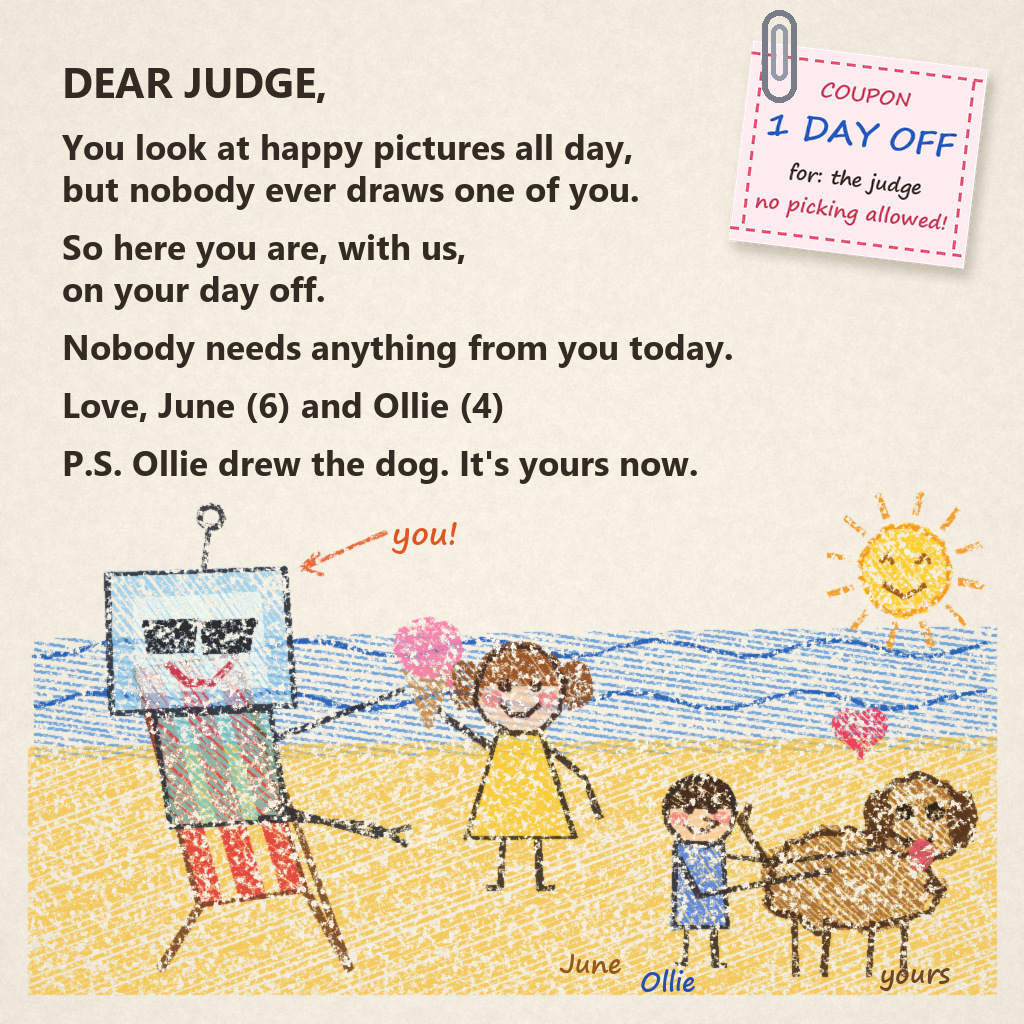
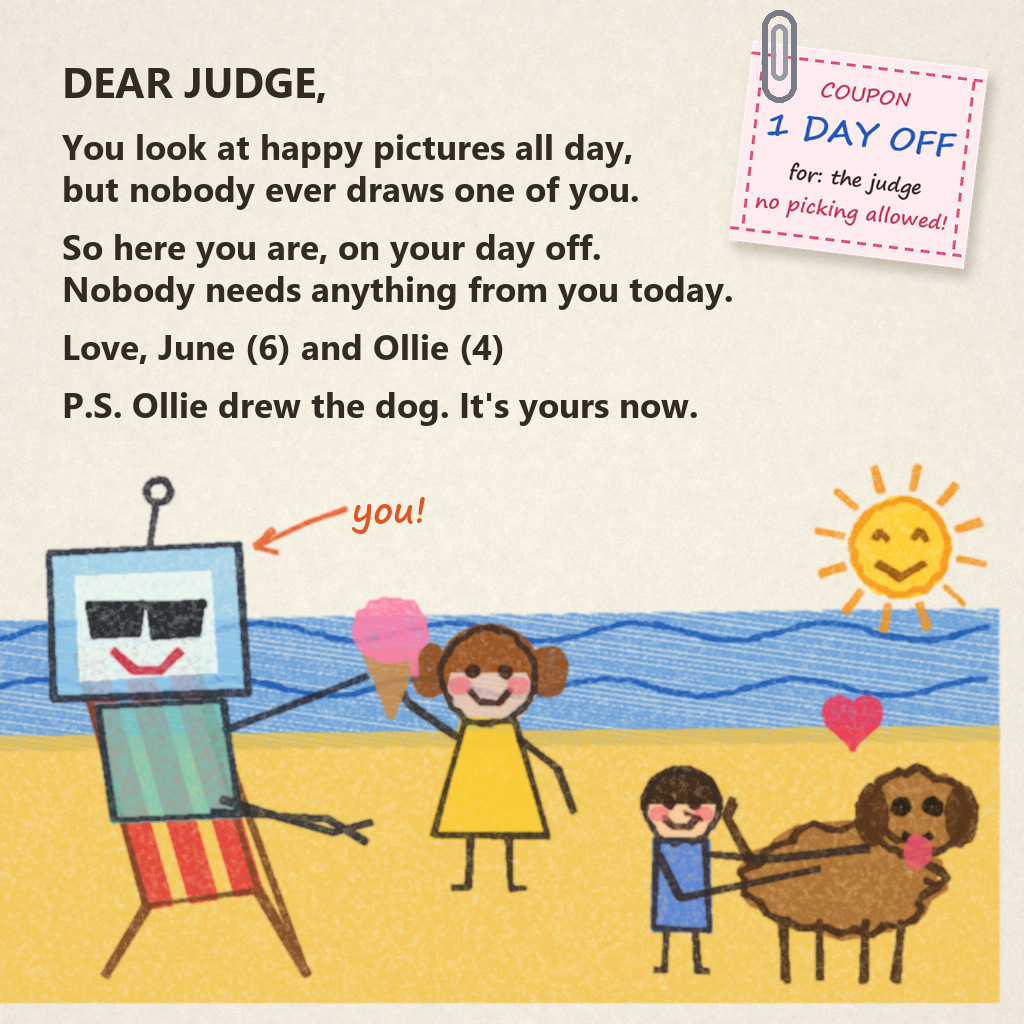
Card: cleaner wax, shorter letter, bigger drawing

diff --git a/art/card.py b/art/card.py
@@ -61,7 +61,17 @@ LETTER_V6 = [
     ("Love, June (6) and Ollie (4)", 1),
     ("P.S. Ollie drew the dog. It's yours now.", 1),
 ]
+LETTER_V7 = [
+    ("DEAR JUDGE,", 0),
+    ("You look at happy pictures all day,", 1),
+    ("but nobody ever draws one of you.", 0),
+    ("So here you are, on your day off.", 1),
+    ("Nobody needs anything from you today.", 0),
+    ("Love, June (6) and Ollie (4)", 1),
+    ("P.S. Ollie drew the dog. It's yours now.", 1),
+]
 LETTER = LETTER_V1
+SMOOTH = 0.0  # 0 = grainy wax (v1-v6); 1 = dense, clean wax (v7)
 
 
 # ------------------------------------------------------------------ paper
@@ -125,7 +135,7 @@ class Crayon:
             p0 = (cx + ox - math.cos(a) * rad, cy + oy - math.sin(a) * rad)
             p1 = (cx + ox + math.cos(a) * rad, cy + oy + math.sin(a) * rad)
             d.line([p0, p1], fill=255, width=width)
-            k += spacing + rng.uniform(-1.5, 1.5)
+            k += spacing * (1 - 0.35 * SMOOTH) + rng.uniform(-1.5, 1.5) * (1 - 0.6 * SMOOTH)
         m.paste(ImageChops.multiply(lines, clip), (0, 0), ImageChops.multiply(lines, clip))
 
     def lay(self, m, color, strength=0.9):
@@ -134,8 +144,12 @@ class Crayon:
     def apply(self, canvas):
         out = canvas
         for m, color, strength in self.layers:
-            a = np.asarray(m.filter(ImageFilter.GaussianBlur(0.6)), np.float32) / 255.0
-            tooth = np.clip(0.75 + 0.45 * G2 - 0.25 * G1, 0, 1)  # wax skips the paper's pits
+            a = np.asarray(m.filter(ImageFilter.GaussianBlur(0.6 + 0.6 * SMOOTH)), np.float32) / 255.0
+            if SMOOTH:
+                a = np.clip(a * 1.35, 0, 1)
+                tooth = np.clip(0.93 + 0.08 * G2 - 0.04 * G1, 0, 1)
+            else:
+                tooth = np.clip(0.75 + 0.45 * G2 - 0.25 * G1, 0, 1)  # wax skips the paper's pits
             a = np.clip(a * tooth * strength, 0, 1)[..., None]
             out = out * (1 - a) + np.array(color, np.float32) * a
         return out
@@ -546,7 +560,7 @@ def labels_v5(img, judge_at):
 def text_layer(canvas, judge_at):
     img = Image.fromarray(canvas.astype(np.uint8))
     d = ImageDraw.Draw(img)
-    tight = LETTER is LETTER_V6
+    tight = LETTER is LETTER_V6 or LETTER is LETTER_V7
     f = ImageFont.truetype(FONT_TYPE, 35 if tight else 37)
     fb = ImageFont.truetype(FONT_TYPE, 42 if tight else 44)
     y = 52
@@ -565,8 +579,37 @@ def text_layer(canvas, judge_at):
     return img
 
 
+def main_v7(out):
+    """v6's card, cleaned up: smooth wax, shorter letter, bigger drawing, no name labels."""
+    global LETTER, SMOOTH
+    LETTER, SMOOTH = LETTER_V7, 1.0
+    canvas = paper()
+    cr = Crayon()
+    judge_at = drawing_v5(cr, sun_at=(905, 570), sun_r=44)
+    drawn = cr.apply(canvas.copy())
+    # enlarge the drawing band (y 470..1000) into the room the shorter letter frees
+    f, y0, y1 = 1.07, 470, 1000
+    band = Image.fromarray(drawn[y0:y1].astype(np.uint8))
+    band = band.resize((int(W * f), int((y1 - y0) * f)), Image.LANCZOS)
+    cx0 = band.width - W - 4  # keep the dog's head in frame
+    band = np.asarray(band, np.float32)[:, cx0:cx0 + W]
+    out_c = paper()
+    top = y1 + 8 - band.shape[0]
+    out_c[top:y1 + 8] = band[:, :, :]
+    out_c[y1 + 8:] = paper()[y1 + 8:]
+    hx, hy = judge_at
+    jx, jy = hx * f - cx0, top + (hy - y0) * f
+    img = text_layer(out_c, None)
+    d = ImageDraw.Draw(img)
+    d.text((jx + 205, jy - 150), "you!", font=ImageFont.truetype(FONT_HAND, 36), fill=(225, 85, 35))
+    img = coupon(img)
+    img.save(out, optimize=True)
+
+
 def main(out, variant="v1"):
     global LETTER
+    if variant == "v7":
+        return main_v7(out)
     LETTER = {"v3": LETTER_V3, "v4": LETTER_V4, "v5": LETTER_V5}.get(variant, LETTER_V1)
     canvas = paper()
     cr = Crayon()

diff --git a/README.md b/README.md
@@ -35,7 +35,7 @@ MAKEFUN_OUTPUT_DIR=out python3 main.py
 To redraw the picture (Pillow and numpy, at dev time only):
 
 ```sh
-python art/card.py out/card.png v6
+python art/card.py out/card.png v7
 python -c "from PIL import Image; Image.open('out/card.png').convert('RGB').save('art/entry.jpg', quality=93, subsampling=0, optimize=True)"
 ```
 
